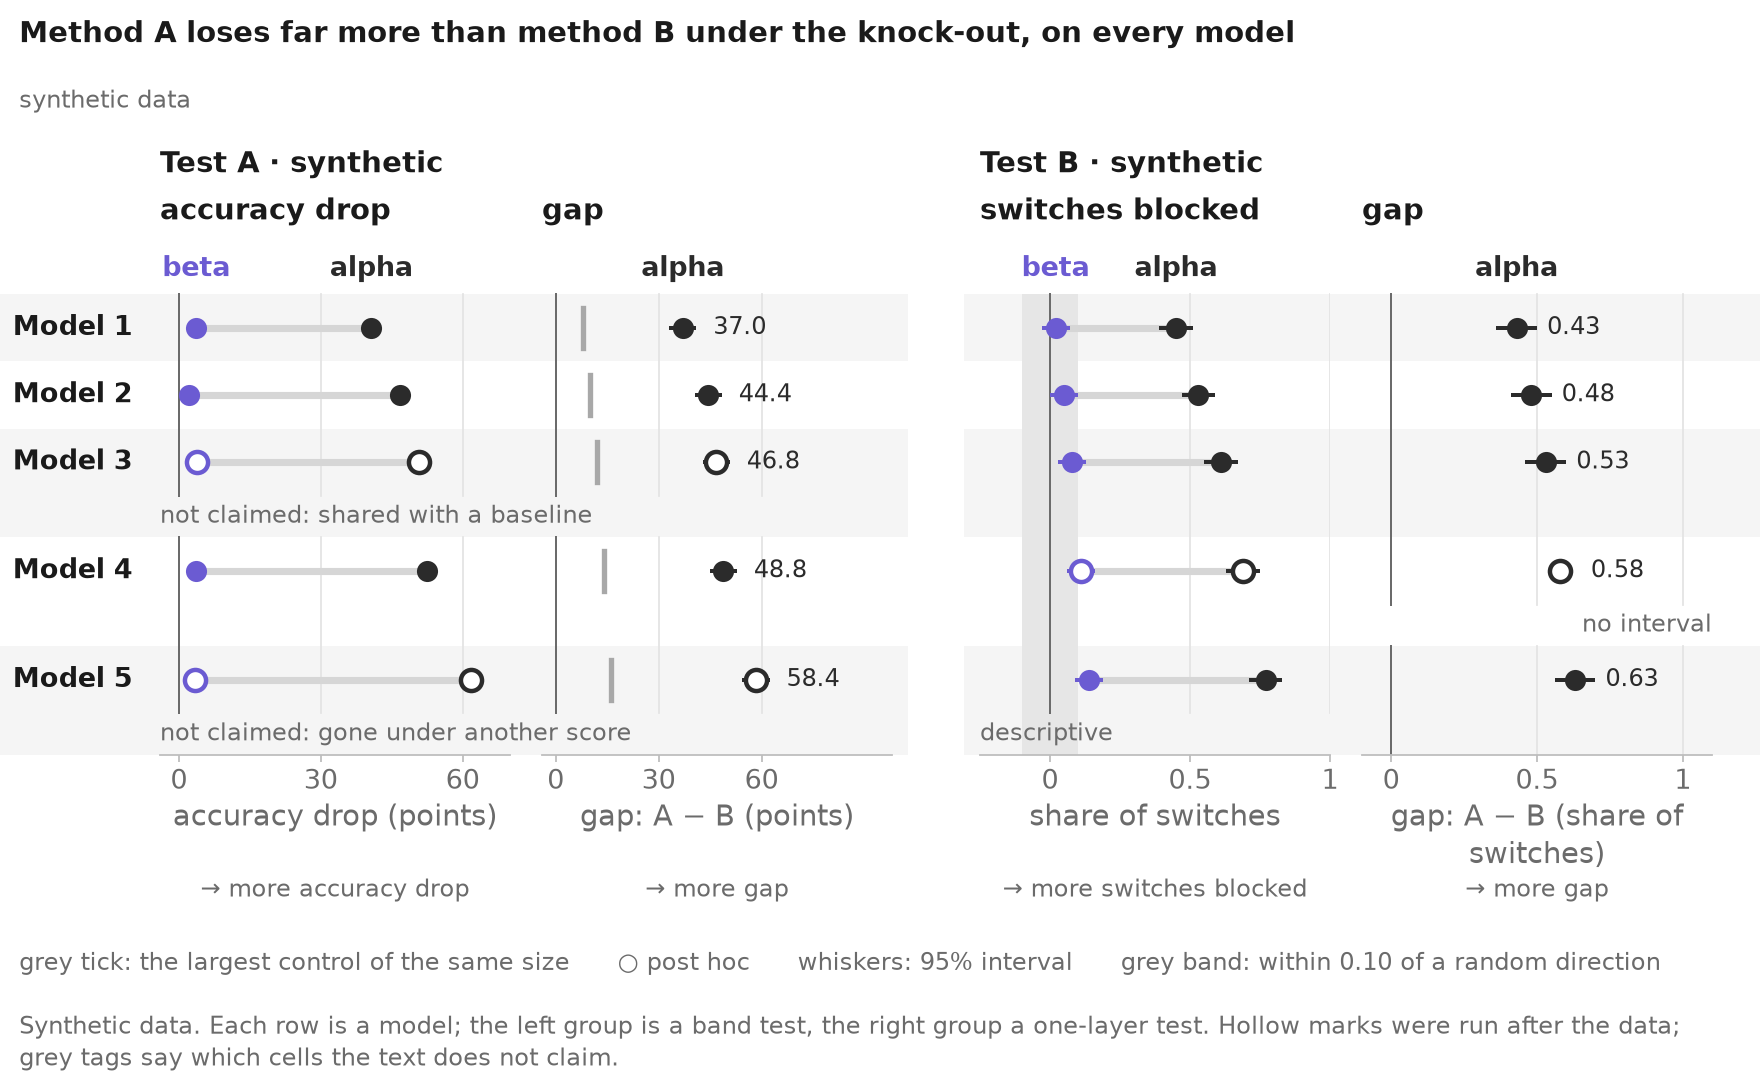
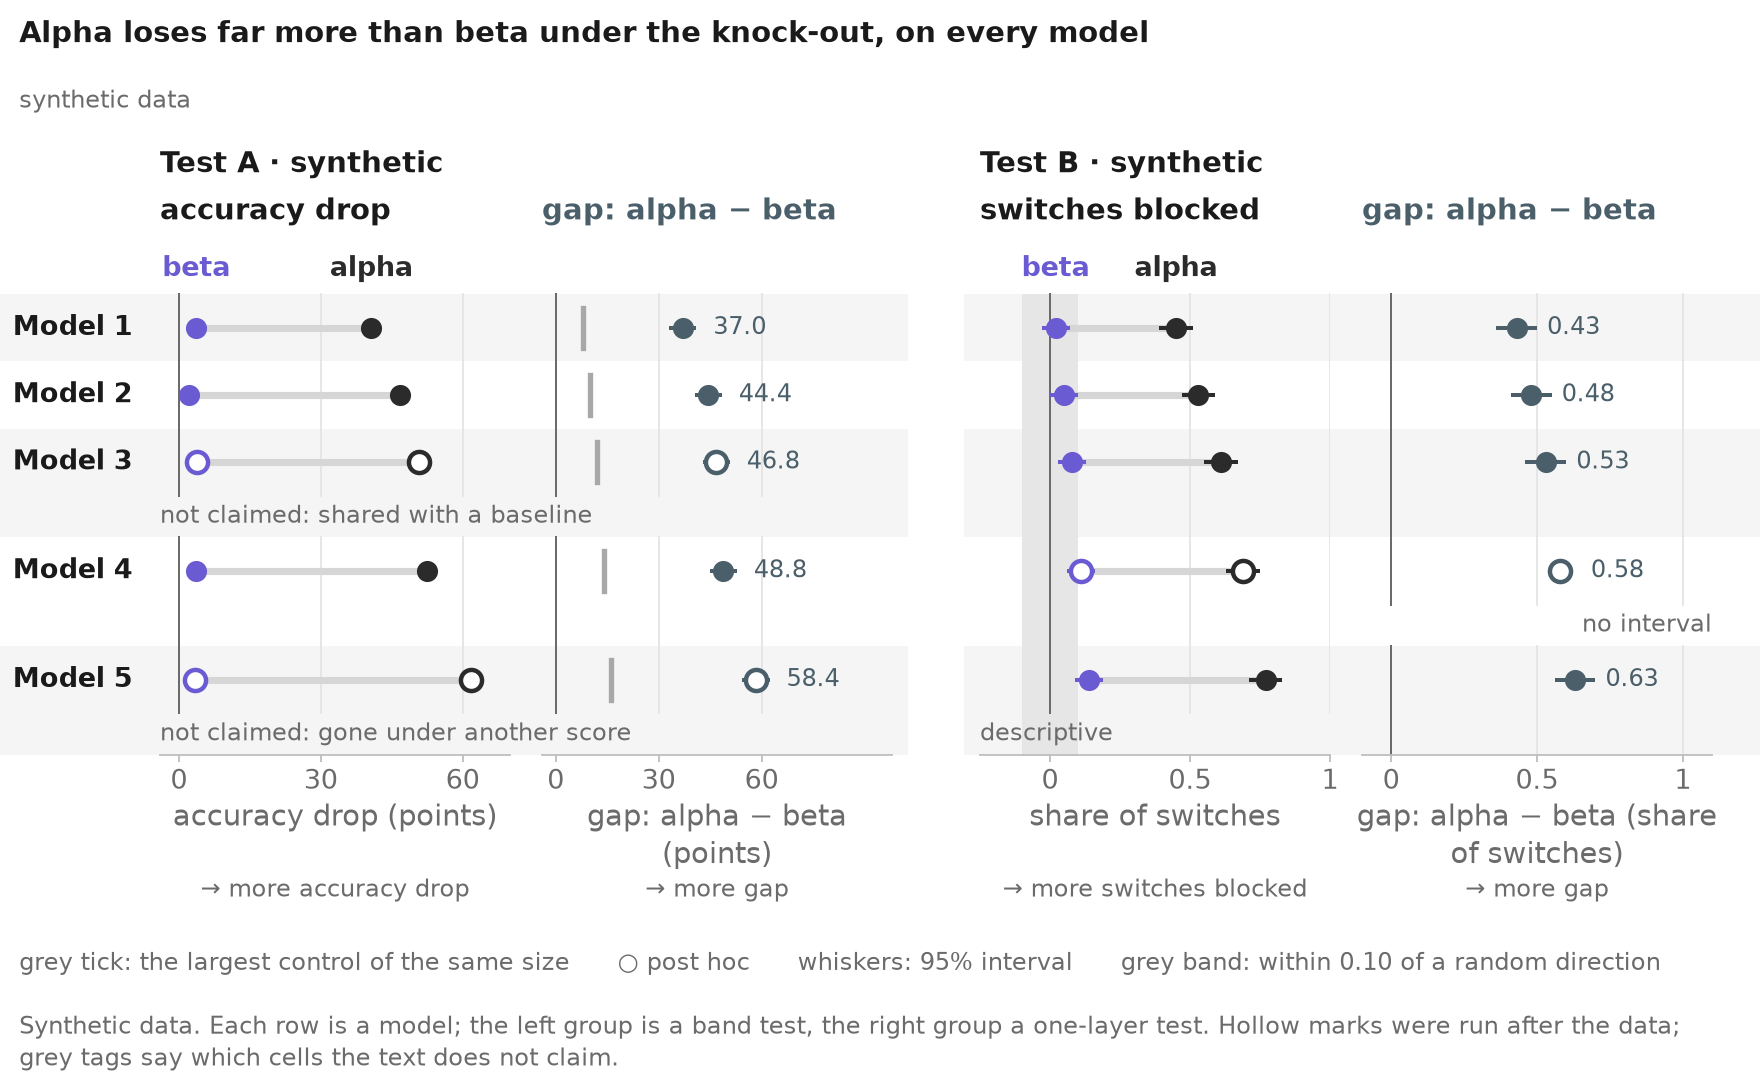
The dot-table example follows GRAMMAR E1: a difference in the neutral role
Its two gap columns drew alpha − beta in alpha's colour with "alpha" above them. They are now drawn in a
neutral role (slot slate) with the header "gap: alpha − beta" as its word; the key figure's example row does
the same. Title and gap axis titles say alpha and beta. The scorecard example's gap is beta − its
shuffled-label baseline, so it gets a unit of its own instead of the alpha − beta one. ADOPTING's DotTable
row points to E1.

Pixels: dot_table (post, slide, readme), key (post, readme), custom (post, slide, readme).

diff --git a/tests/test_checks.py b/tests/test_checks.py
@@ -275,7 +275,7 @@ def test_png_checks(tmp_path, vocab):
 # ---- key figure, cue words, one-line colour words, slide size, line status -------------------------------------------
 def test_cue_word_larger(vocab_dir):
     p = vocab_dir / "plotstyle.toml"
-    p.write_text(p.read_text().replace('title = "gap: A − B (points)"\nquantity = "gap"', 'title = "gap: A − B (points)"\nquantity = "gap"\ncue_word = "larger"'))
+    p.write_text(p.read_text().replace('title = "gap: alpha − beta (points)"\nquantity = "gap"', 'title = "gap: alpha − beta (points)"\nquantity = "gap"\ncue_word = "larger"'))
     v = sp.load(p)
     assert v.cue("gap") == "→ larger gap"
     mpl, problems = run(example("dot_table").dot_table(v))
@@ -549,15 +549,19 @@ def test_one_estimate_per_colour_per_line(vocab):
     assert run(sp.Figure("methods", vocab).add(sp.DotTable(["m1"], [a, b])))[1] == []  # across columns: allowed
 
 
-def test_header_that_is_the_role_word(vocab_dir):
+@pytest.mark.parametrize("word", [None, "gap: alpha − beta"])  # the role's own word, or the series' word
+def test_header_that_is_the_role_word(vocab_dir, word):
     p = vocab_dir / "plotstyle.toml"
-    p.write_text(p.read_text() + '\n[roles.diff]\nslot = "slate"\nword = "gap"\nmeaning = "a quantity of no role"\n')
+    header = word or "gap"
+    if word is None:
+        p.write_text(p.read_text().replace('word = "neutral"', 'word = "gap"'))
     v = sp.load(p)
-    col = sp.DotColumn("gap", "gap", (-4, 98), (0, 30, 60), [sp.Series("diff", {"m1": sp.Est(40, cell="acc.m1")})])
+    col = sp.DotColumn(header, "gap", (-4, 98), (0, 30, 60),
+                       [sp.Series("neutral", {"m1": sp.Est(40, cell="acc.m1")}, word=word)])  # fmt: skip
     mpl, problems = run(sp.Figure("methods", v).add(sp.DotTable(["m1"], [col])))
     assert problems == [], [str(p) for p in problems]
     words = [t for t in mpl.findobj(lambda a: tags(a).get("kind") == "role_word")]
-    assert len(words) == 1 and words[0].get_text() == "gap" and words[0].get_color() == v.role("diff").hex
+    assert len(words) == 1 and words[0].get_text() == header and words[0].get_color() == v.role("neutral").hex
 
 
 def test_stack_with_a_text_column(vocab):

diff --git a/examples/blocks/dot_table.py b/examples/blocks/dot_table.py
@@ -15,6 +15,7 @@ import numpy as np
 import styles_plot as sp
 
 MODELS = ["m1", "m2", "m3", "m4", "m5"]
+GAP = "gap: alpha − beta"  # a difference is drawn in the neutral role; its header names it (GRAMMAR E1)
 
 
 def _band_data():
@@ -44,8 +45,8 @@ def dot_table(v: sp.Vocab) -> sp.Figure:
         connect=("second", "first"),
     )  # fmt: skip
     gap_col = sp.DotColumn(
-        "gap", "gap", (-4, 98), (0, 30, 60),
-        series=[sp.Series("first", lambda m: (gap[m], gap[m] - 4, gap[m] + 4), cell="band.{row}",
+        GAP, "gap", (-4, 98), (0, 30, 60),
+        series=[sp.Series("neutral", lambda m: (gap[m], gap[m] - 4, gap[m] + 4), word=GAP, cell="band.{row}",
                           key="gap.band.{row}", label=True)],
         ticks=ctrl,
     )  # fmt: skip
@@ -61,14 +62,14 @@ def dot_table(v: sp.Vocab) -> sp.Figure:
         return layer_gap[m], layer_gap[m] - 0.07, layer_gap[m] + 0.07
 
     layer_gap_col = sp.DotColumn(
-        "gap", "gap_share", (-0.1, 1.1), (0, 0.5, 1),
-        series=[sp.Series("first", layer_gap_est, cell="layer.{row}", key="gap.layer.{row}", label=True)],
+        GAP, "gap_share", (-0.1, 1.1), (0, 0.5, 1),
+        series=[sp.Series("neutral", layer_gap_est, word=GAP, cell="layer.{row}", key="gap.layer.{row}", label=True)],
     )  # fmt: skip
     table = sp.DotTable(MODELS, [sp.ColumnGroup("Test A · synthetic", [drop, gap_col]), sp.Gutter(),
                                  sp.ColumnGroup("Test B · synthetic", [blocked, layer_gap_col])])  # fmt: skip
     return sp.Figure(
         "dot_table", v, subtitle="synthetic data",
-        title="Method A loses far more than method B under the knock-out, on every model",
+        title="Alpha loses far more than beta under the knock-out, on every model",
         caption="Synthetic data. Each row is a model; the left group is a band test, the right group a one-layer "
                 "test. Hollow marks were run after the data; grey tags say which cells the text does not claim.",
     ).add(table)  # fmt: skip

diff --git a/examples/gallery.py b/examples/gallery.py
@@ -39,9 +39,9 @@ def key(v: sp.Vocab) -> sp.Figure:
                        series=[sp.Series("second", {m: sp.Est(b, cell="band.m2")}),
                                sp.Series("first", {m: sp.Est(a, cell="band.m2")})],
                        connect=("second", "first"), ticks={m: ctrl})  # fmt: skip
-    gap_col = sp.DotColumn("gap", "gap", (-4, 98), (0, 30, 60),
-                           series=[sp.Series("first", {m: sp.Est(gap, gap - 4, gap + 4, cell="band.m2",
-                                                                 key="gap.band.m2", label=True)})])  # fmt: skip
+    gap_col = sp.DotColumn(dt.GAP, "gap", (-4, 98), (0, 30, 60),
+                           series=[sp.Series("neutral", {m: sp.Est(gap, gap - 4, gap + 4, cell="band.m2",
+                                                                   key="gap.band.m2", label=True)}, word=dt.GAP)])  # fmt: skip
     text = (f"read: on {v.entity('models', m).name}, the knock-out drops alpha {{a}} points and beta {{b}}; the gap "
             "is {gap}, the largest same-size control's {ctrl}")  # fmt: skip
     numbers = {"a": (a, "drop", "drop.alpha.m2"), "b": (b, "drop", "drop.beta.m2"), "gap": (gap, "gap", "gap.band.m2"),

diff --git a/tests/test_save_cli_api.py b/tests/test_save_cli_api.py
@@ -65,7 +65,7 @@ def test_save_and_sidecar(tmp_path, vocab):
     assert side["figure"] == "dot_table" and side["target"] == "post" and side["publishable"]
     assert side["cells"]["band.m3"] == {"timing": "post_hoc", "claim": "not_claimed"}
     assert "○ post hoc" in side["key"] and "gap.band.m1" in side["numbers"]
-    assert side["roles"] == ["first", "second"]
+    assert side["roles"] == ["first", "neutral", "second"]  # the gaps are differences: the neutral role (E1)
 
 
 def test_bundle_is_all_or_nothing(tmp_path, vocab):

diff --git a/examples/blocks/custom.py b/examples/blocks/custom.py
@@ -16,7 +16,7 @@ import styles_plot as sp
 
 ROWS = (  # (header, unit, xlim, xticks, chance)
     ("accuracy", "accuracy", (40, 100), (50, 75, 100), 50),
-    ("gap", "gap", (-10, 60), (0, 25, 50), None),
+    ("gap", "lift", (-10, 60), (0, 25, 50), None),  # beta − its shuffled-label baseline
     ("rank", "rank", (10, 10000), None, None),
 )
 

diff --git a/CHANGELOG.md b/CHANGELOG.md
@@ -23,6 +23,11 @@ is an error at once.
 - **`file=` in a figure set.** `@SET.figure(id, file="01_main_split")` saves `<out>/<target>/01_main_split.png`; the
   default is the id. Two figures with one file name are a `BuildError` when the second is registered. The figure keeps
   its id in the sidecar, the registry and `problems.json`; `index.json` gains `file`. *Migration:* none.
+- **The dot-table example follows E1.** Its two gap columns drew the difference alpha − beta in alpha's colour, with
+  "alpha" above them. They are now drawn in a neutral role (slot slate) with the header "gap: alpha − beta" as its
+  word, the way GRAMMAR E1 says; the key figure's example row does the same. The examples' words say alpha and beta
+  throughout (the title, the gap axis titles), and the scorecard example's gap, which is beta − its shuffled-label
+  baseline, gets a unit of its own instead of the alpha − beta one. *Pixels:* `dot_table`, `key` and `custom`.
 
 ## 0.2.0
 

diff --git a/docs/ADOPTING.md b/docs/ADOPTING.md
@@ -213,7 +213,7 @@ fig.add(sp.Custom(1.4, draw))
 
 | type | for | rows | notes |
 |---|---|---|---|
-| `DotTable` | estimates per entity and condition | entities | `DotColumn` panels, `TextColumn` numbers, `ColumnGroup`, `Gutter` |
+| `DotTable` | estimates per entity and condition | entities | `DotColumn` panels, `TextColumn` numbers, `ColumnGroup`, `Gutter`; a difference between two roles is drawn in a neutral role with its header as the word, `Series("neutral", …, word=header)` (GRAMMAR E1) |
 | `Sweep` | a quantity over depth | entities, stacked | lines with optional interval bands; `Point`s on lines |
 | `Distribution` | histograms or strips | entities, stacked; conditions as columns | `count_unit` names a histogram's counts |
 | `Stack` | 100% splits | entities | at most 4 segments, each named in words |
